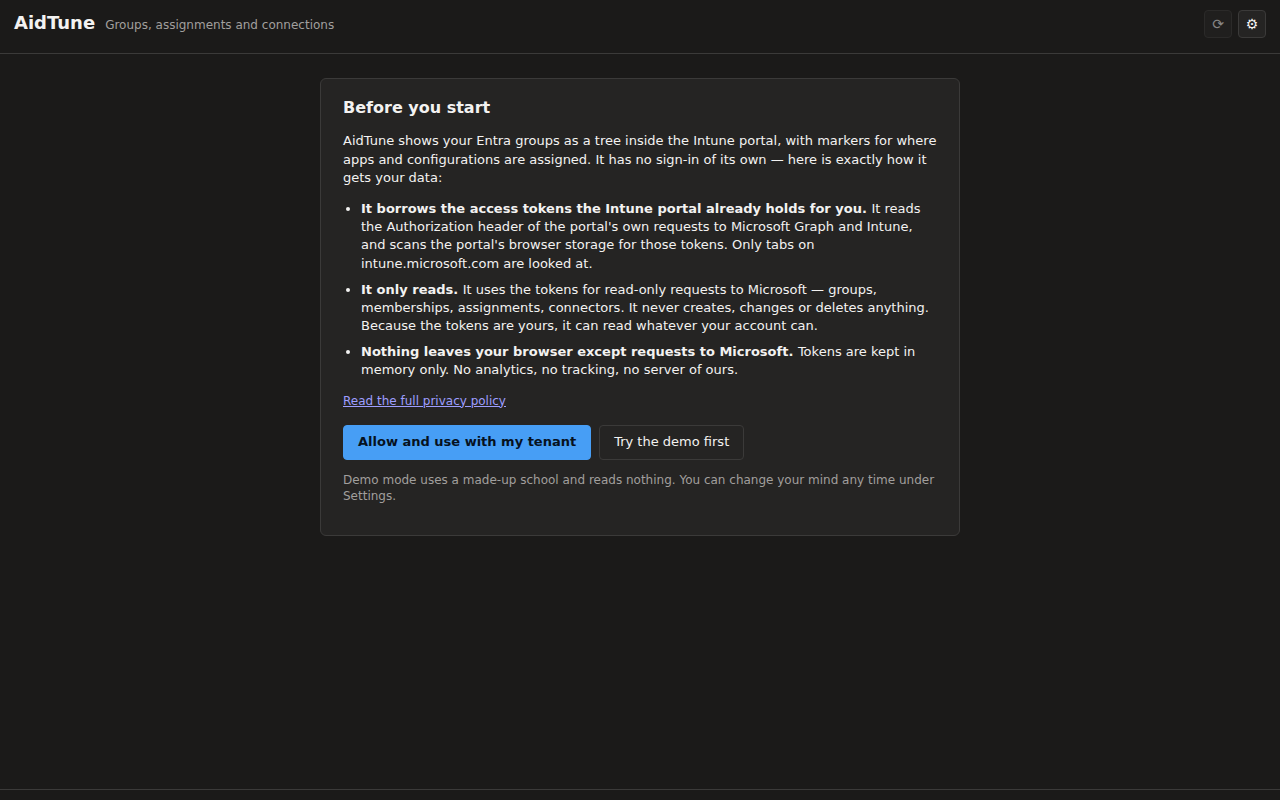
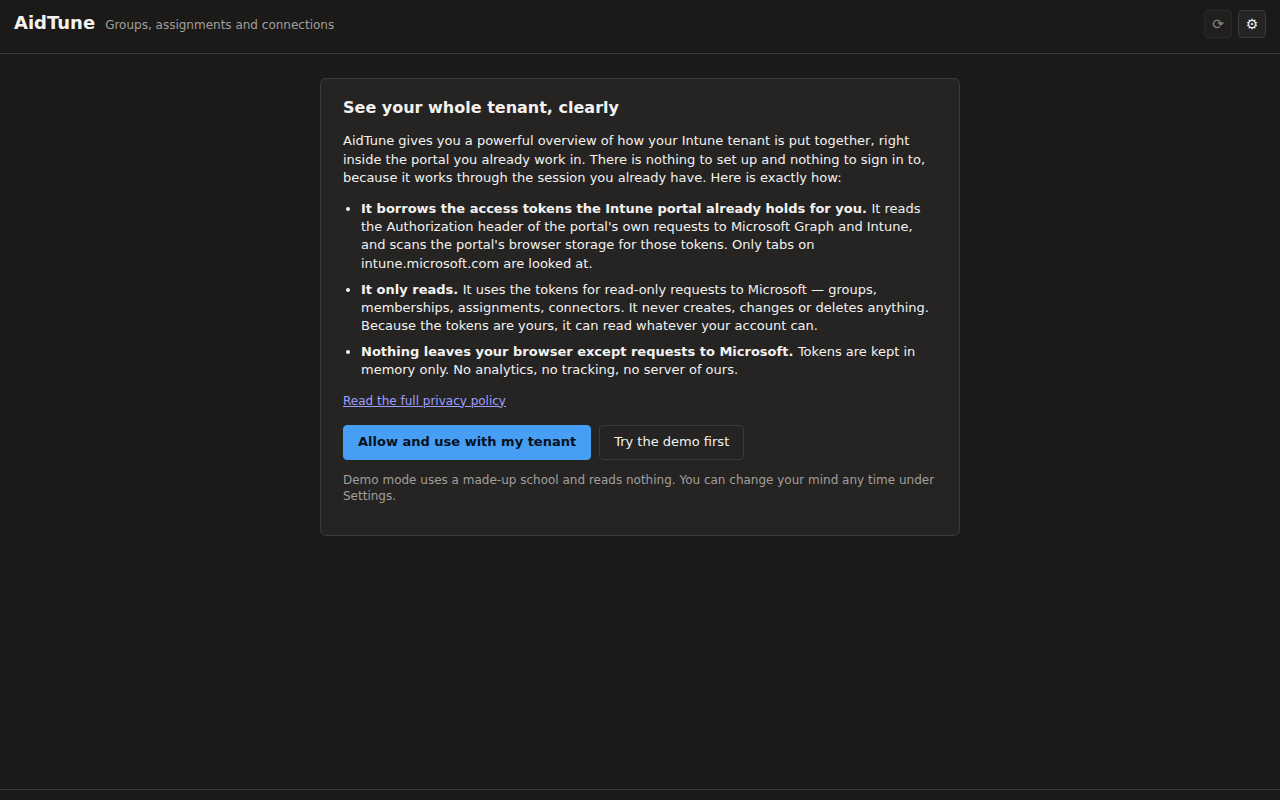
Consent panel: lead with the benefit, then how it works

Changed region(s): [[0.25, 0.125, 0.7188, 0.25]]

diff --git a/src/page/page.js b/src/page/page.js
@@ -668,13 +668,14 @@ function renderConsent() {
 
   const card = el("div", "consent");
   card.id = "consent";
-  card.append(el("h2", null, "Before you start"));
+  card.append(el("h2", null, "See your whole tenant, clearly"));
   card.append(
     el(
       "p",
       null,
-      "AidTune shows your Entra groups as a tree inside the Intune portal, with markers for " +
-        "where apps and configurations are assigned. It has no sign-in of its own — here is exactly how it gets your data:"
+      "AidTune gives you a powerful overview of how your Intune tenant is put together, right inside the " +
+        "portal you already work in. There is nothing to set up and nothing to sign in to, because it works " +
+        "through the session you already have. Here is exactly how:"
     )
   );
 
